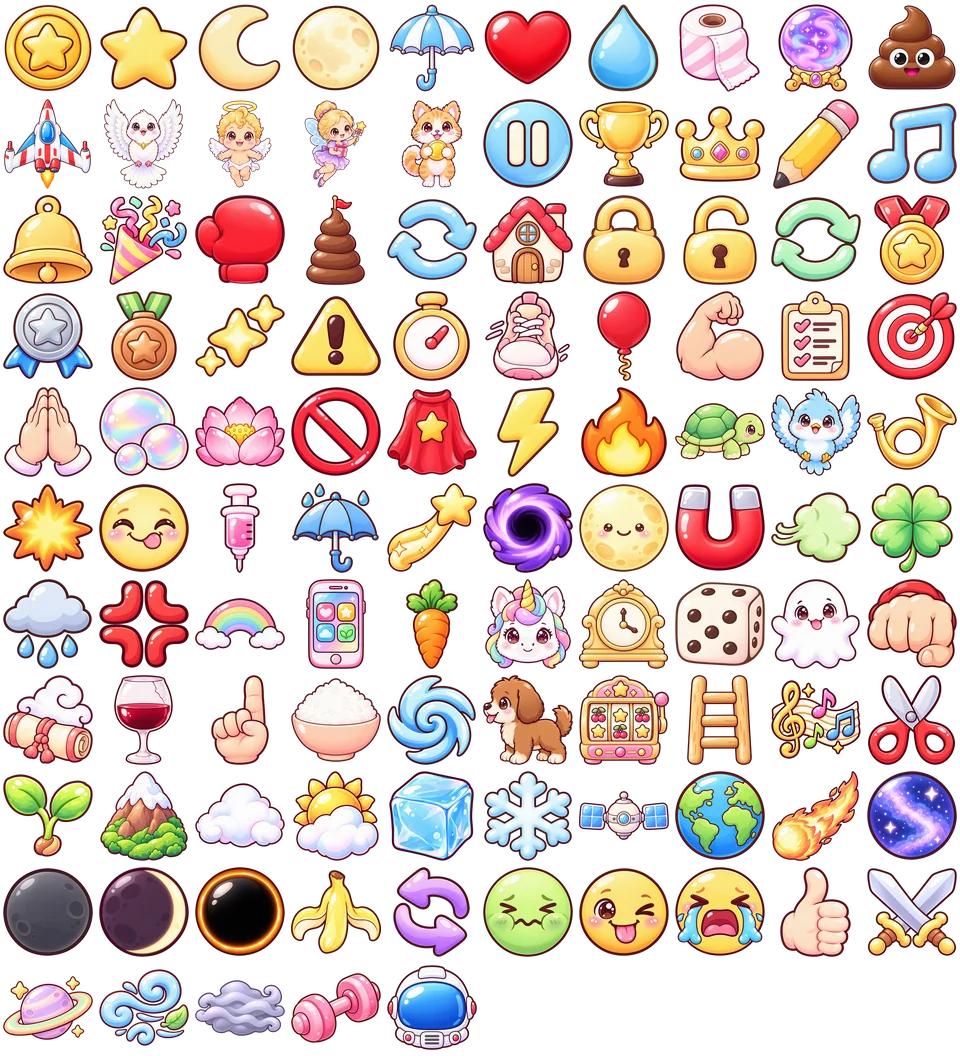
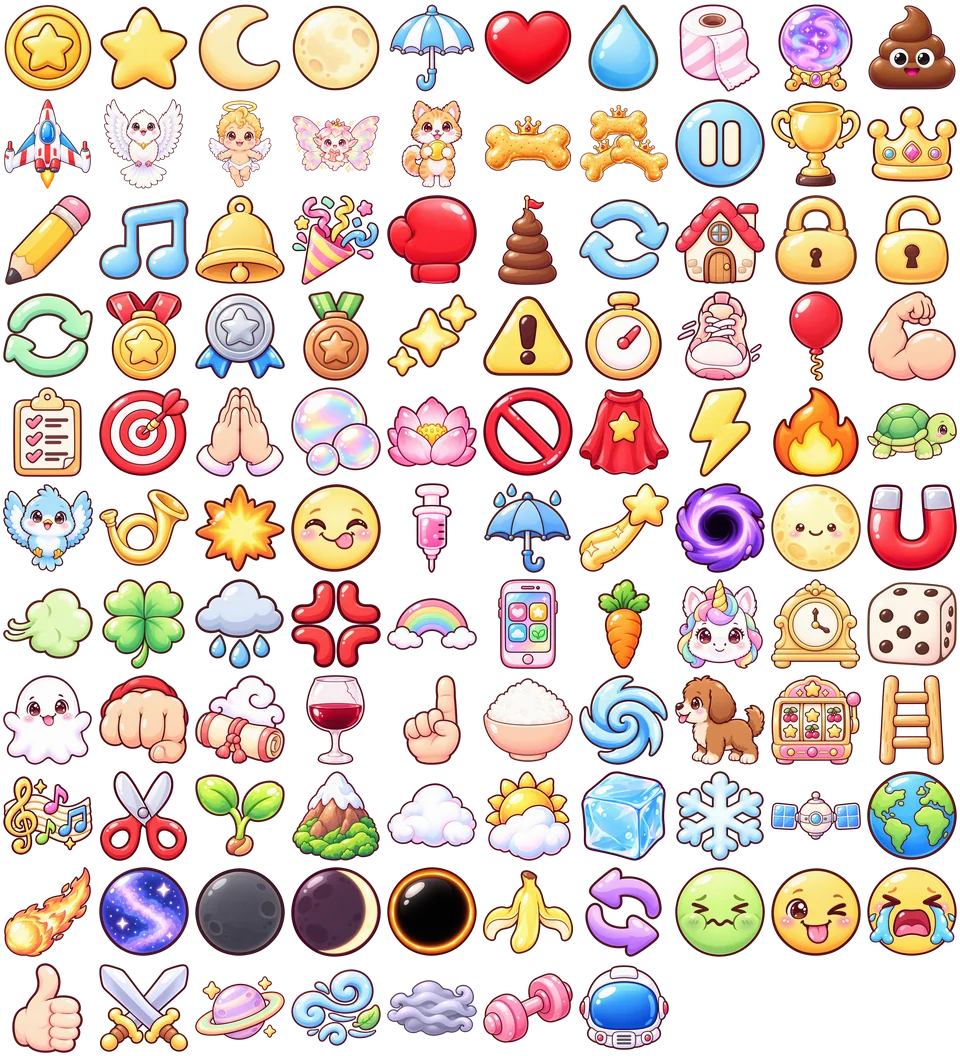
v0.9.78 왕뼈다귀·왕뼈다귀 군단 증강 아이콘을 왕관 뼈다귀 그림으로

diff --git a/index.html b/index.html
@@ -1708,15 +1708,16 @@
        밀어 숨길 뿐 남겨 두어 textContent 가 그대로다(글자를 읽는 코드가 안 깨진다). 나중에 붙는 글자는 MutationObserver 가 잡는다.
      · 캔버스 글자: fillText/strokeText 를 감싸 이모지 자리에 그림을 그린다 — 자리 폭은 원래 이모지 폭 그대로라 배치가 안 바뀐다.
      그림이 아직 안 왔거나 목록에 없는 이모지는 원래 이모지로 나온다. */
-  /*ICONS-BEGIN*/ const ICON_KEYS = ["🪙", "⭐", "🌙", "🌕", "☂", "❤", "💧", "🧻", "🔮", "💩", "🚀", "🕊", "👼", "🧚", "🐈", "⏸", "🏆", "👑", "✏", "🎵", "🔔", "🎉", "🥊", "🗼", "🔄", "🏠", "🔒", "🔓", "🔁", "🥇", "🥈", "🥉", "✨", "⚠", "⏱", "🏃", "🎈", "💪", "📋", "🎯", "🙏", "🫧", "🧘", "🚫", "🦸", "⚡", "🔥", "🐢", "🐦", "📯", "💥", "😋", "💉", "☔", "🌠", "🕳", "🌝", "🧲", "💨", "🍀", "🌧", "💢", "🌈", "📱", "🥕", "🦄", "🕰", "🎲", "👻", "👊", "👯", "🍷", "☝", "🍚", "🌀", "🐕", "🎰", "🪜", "🎼", "✂", "🌱", "⛰", "☁", "🌤", "🧊", "❄", "🛰", "🌍", "☄", "🌌", "🌑", "🌒", "⚫", "🍌", "😵", "🤢", "😜", "😭", "👍", "⚔", "🪐", "🌬", "🌫", "🏋", "🧑🚀"]; const ICON_COLS = 10, ICON_ROWS = 11, ICON_CELL = 96; /*ICONS-END*/
+  /*ICONS-BEGIN*/ const ICON_KEYS = ["🪙", "⭐", "🌙", "🌕", "☂", "❤", "💧", "🧻", "🔮", "💩", "🚀", "🕊", "👼", "🧚", "🐈", "🦴", "🍗", "⏸", "🏆", "👑", "✏", "🎵", "🔔", "🎉", "🥊", "🗼", "🔄", "🏠", "🔒", "🔓", "🔁", "🥇", "🥈", "🥉", "✨", "⚠", "⏱", "🏃", "🎈", "💪", "📋", "🎯", "🙏", "🫧", "🧘", "🚫", "🦸", "⚡", "🔥", "🐢", "🐦", "📯", "💥", "😋", "💉", "☔", "🌠", "🕳", "🌝", "🧲", "💨", "🍀", "🌧", "💢", "🌈", "📱", "🥕", "🦄", "🕰", "🎲", "👻", "👊", "👯", "🍷", "☝", "🍚", "🌀", "🐕", "🎰", "🪜", "🎼", "✂", "🌱", "⛰", "☁", "🌤", "🧊", "❄", "🛰", "🌍", "☄", "🌌", "🌑", "🌒", "⚫", "🍌", "😵", "🤢", "😜", "😭", "👍", "⚔", "🪐", "🌬", "🌫", "🏋", "🧑🚀"]; const ICON_COLS = 10, ICON_ROWS = 11, ICON_CELL = 96; /*ICONS-END*/
   const ICON_IDX = new Map(ICON_KEYS.map((k, i) => [k, i]));
   const ICON_RE = ICON_KEYS.length ? new RegExp("(" + ICON_KEYS.slice().sort((a, b) => b.length - a.length)
     .map(k => k.replace(/[.*+?^${}()|[\]\\]/g, "\\$&")).join("|") + ")\\uFE0F?", "gu") : null;
   let iconSheet = null;
+  const ICON_URL = "assets/icons.webp?k=" + ICON_KEYS.length + "-" + ICON_KEYS.join("").length;   // v0.9.78 칸 순서가 바뀌면 옛 그림을 쓰지 않게
   if (ICON_RE) {
     const im = new Image();
     im.onload = () => { iconSheet = im; document.documentElement.classList.add("iconsOn"); };
-    im.src = "assets/icons.webp";
+    im.src = ICON_URL;
   }
   function iconPos(i) {                      // 배경 위치(%) — background-size 가 시트 전체를 칸 수만큼 키운다
     const c = i % ICON_COLS, r = Math.floor(i / ICON_COLS);
@@ -1795,7 +1796,7 @@
     };
     const st = document.createElement("style");
     st.textContent = ".iconsOn .emj{display:inline-block;width:1.15em;height:1.15em;vertical-align:-0.22em;" +
-      "background:url(assets/icons.webp) no-repeat;background-size:" + ICON_COLS * 100 + "% " + ICON_ROWS * 100 + "%;" +
+      "background:url(" + ICON_URL + ") no-repeat;background-size:" + ICON_COLS * 100 + "% " + ICON_ROWS * 100 + "%;" +
       "overflow:hidden;white-space:nowrap;text-indent:3em;line-height:1}";
     document.head.appendChild(st);
     emojify(document.body);
@@ -1827,7 +1828,7 @@
   const elTitle = document.getElementById("overTitle");
   const coinNote = document.getElementById("coinNote");
 
-  const GAME_VERSION = "v0.9.77";
+  const GAME_VERSION = "v0.9.78";
   /* 제작사 스플래시(bamhobak friends 로고) — 2026-09-20 끔. 다시 켜려면 true */
   const SPLASH_USE = false;   // 코드를 고칠 때마다 뒤 두 자리를 올린다
   document.getElementById("ver").textContent = GAME_VERSION;
@@ -3770,7 +3771,7 @@
     { id: "blackhole",  ic: "🕳", nm: "블랙홀",     ds: "끌어당기는 힘이 더 세지며, 간식도 약간의 영향을 받는다",
       hidden: true, once: true, cond: () => aug.magnet > 0,
       go: () => { aug.blackhole = true; aug.magnet = 390; } },   // 자석 220 → 390 으로 확장
-    { id: "legion",     ic: "🌝", nm: "왕뼈다귀 군단", ds: "왕뼈다귀가 떼로 몰려온다",
+    { id: "legion",     ic: "🍗", nm: "왕뼈다귀 군단", ds: "왕뼈다귀가 떼로 몰려온다",
       hidden: true, once: true, cond: () => aug.giant > 0,
       go: () => { aug.legion = true; } },
     { id: "magnet",     ic: "🧲", nm: "자석",       ds: "근처의 아이템이 끌려온다",
@@ -3783,7 +3784,7 @@
     { id: "lucky",      ic: "🍀", nm: "행운",       ds: "아이템이 더 자주 등장",
       // 첫 개는 +15%, 겹칠수록 0.85배씩 덜 먹는다 (5개 누적 +69%, 실측 +65%)
       go: () => { aug.itemRateMul /= 1 + 0.15 * dim("lucky"); } },
-    { id: "giant",      ic: "🌝", nm: "왕뼈다귀", ds: "왕뼈다귀 두둥등장",
+    { id: "giant",      ic: "🦴", nm: "왕뼈다귀", ds: "왕뼈다귀 두둥등장",
       once: true, go: () => { aug.giant = 1; } },
     { id: "downpour",   ic: "🌧", nm: "간식 폭우", ds: "간식이 더 많이 쏟아진다",
       go: () => { aug.feverRateMul = 1 / (1 / aug.feverRateMul + 0.20); } },   // 먹을 때마다 양 +20%, 감쇠 없음

diff --git a/README.md b/README.md
@@ -5,7 +5,7 @@
 👉 **플레이: https://bamhobak.github.io/ddongpi/**
 
 > 이 문서는 `index.html` 의 실제 값을 옮겨 적은 것입니다. 숫자를 고쳤으면 여기도 같이 고쳐 주세요.
-> 마지막으로 맞춰 본 판: **v0.9.77**
+> 마지막으로 맞춰 본 판: **v0.9.78**
 
 ## ⚔ 대전모드 (v0.8.24 한 폰 · v0.8.25 두 폰)
 시작하기를 누르면 **[방 만들기] · [방 참가](방 번호 4자리) · [한 폰으로 둘이서]** 를 고릅니다.
